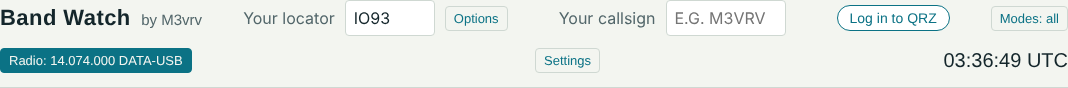
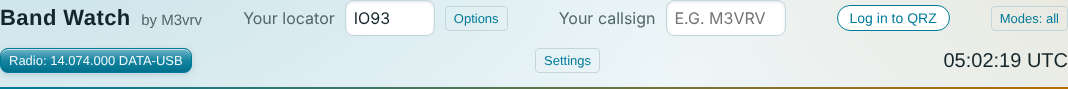
Band Watch 1.12.3: opens in its own window on Windows; brighter, glossy colours
Claude-Session: https://claude.ai/code/session_0138xYeF1kWA1A3BkV9ZvHHy

diff --git a/public/style.css b/public/style.css
@@ -345,3 +345,22 @@ dialog label.filebtn input{position:absolute;inset:0;opacity:0;cursor:pointer;ma
 .wnhits{list-style:none;padding:0;margin:4px 0 0;max-height:260px;overflow:auto}
 .wnhits li{padding:4px 0;border-bottom:1px solid var(--line);display:flex;flex-wrap:wrap;gap:4px 8px;align-items:center}
 .abupd{margin:0 0 10px;font-size:.875rem;display:flex;flex-wrap:wrap;gap:6px 10px;align-items:center}
+
+/* 1.12.3: brighter, glossy look for the Light, Dark and "Match my device" colours. High contrast and Night
+   stay flat on purpose. Gloss is a white highlight layered over each colour, so accent colours still work. */
+:root:not([data-theme]),:root[data-theme="light"],:root[data-theme="system"]{--bg:#eef6f8;--line:#c3d6dc;--warm:#b86e00;--cool:#007a99;--gloss:rgba(255,255,255,.55);--shade:rgba(10,60,80,.14)}
+@media (prefers-color-scheme:dark){:root:not([data-theme]),:root[data-theme="system"]{--bg:#0a1824;--surface:#12283a;--line:#244a60;--warm:#ffbf3d;--cool:#45e0f5;--grid:#1d3a4c;--gloss:rgba(255,255,255,.10);--shade:rgba(0,0,0,.45)}}
+:root[data-theme="dark"]{--bg:#0a1824;--surface:#12283a;--line:#244a60;--warm:#ffbf3d;--cool:#45e0f5;--grid:#1d3a4c;--gloss:rgba(255,255,255,.10);--shade:rgba(0,0,0,.45)}
+:root:not([data-theme="contrast"]):not([data-theme="night"]) body{background:radial-gradient(1200px 600px at 10% -10%,color-mix(in srgb,var(--cool) 16%,transparent),transparent 60%),radial-gradient(900px 500px at 100% 0%,color-mix(in srgb,var(--warm) 12%,transparent),transparent 60%),var(--bg);background-attachment:fixed}
+:root:not([data-theme="contrast"]):not([data-theme="night"]) header{border-bottom:2px solid transparent;border-image:linear-gradient(90deg,var(--cool),var(--warm)) 1}
+:root:not([data-theme="contrast"]):not([data-theme="night"]) .hero .big span{background:linear-gradient(180deg,color-mix(in srgb,var(--cool) 70%,#fff),var(--cool));-webkit-background-clip:text;background-clip:text;color:transparent;filter:drop-shadow(0 2px 6px color-mix(in srgb,var(--cool) 35%,transparent))}
+:root:not([data-theme="contrast"]):not([data-theme="night"]) :is(.map,.toast,.wcc,.actbox,.stmap,.planchart,.banner){background-image:linear-gradient(180deg,var(--gloss),transparent 45%);border-radius:10px;box-shadow:0 6px 20px var(--shade),inset 0 1px 0 var(--gloss)}
+:root:not([data-theme="contrast"]):not([data-theme="night"]) :is(.lk button,.chips button[aria-pressed="true"],.qbtn.on,.lbtn.on,.rigbtn.on,.dbtns button,.qc .go,.lsbar button,.optrow button,.filebtn,.dcrow button){background-image:linear-gradient(180deg,rgba(255,255,255,.45),rgba(255,255,255,.08) 50%,rgba(0,0,0,.08));border-radius:8px;box-shadow:0 2px 6px var(--shade),inset 0 1px 0 rgba(255,255,255,.6);transition:transform .1s,box-shadow .1s,filter .1s}
+:root:not([data-theme="contrast"]):not([data-theme="night"]) :is(.lk button,.dbtns button,.qc .go,.lsbar button,.optrow button,.filebtn,.dcrow button,.chips button,.qbtn,.lbtn,.rigbtn):hover{filter:brightness(1.08);transform:translateY(-1px);box-shadow:0 4px 10px var(--shade),inset 0 1px 0 rgba(255,255,255,.6)}
+:root:not([data-theme="contrast"]):not([data-theme="night"]) :is(.lk button,.dbtns button,.qc .go,.lsbar button,.optrow button,.filebtn,.dcrow button,.chips button,.qbtn,.lbtn,.rigbtn):active{transform:translateY(0);filter:brightness(.97)}
+:root:not([data-theme="contrast"]):not([data-theme="night"]) .chips button{background-image:linear-gradient(180deg,var(--gloss),transparent 60%);box-shadow:0 1px 3px var(--shade)}
+:root:not([data-theme="contrast"]):not([data-theme="night"]) .bar{border-radius:999px;box-shadow:inset 0 1px 2px var(--shade)}
+:root:not([data-theme="contrast"]):not([data-theme="night"]) .bar i{border-radius:999px;background-image:linear-gradient(180deg,rgba(255,255,255,.55),rgba(255,255,255,0) 55%),linear-gradient(90deg,color-mix(in srgb,var(--cool) 75%,#fff),var(--cool));box-shadow:0 0 8px color-mix(in srgb,var(--cool) 45%,transparent)}
+:root:not([data-theme="contrast"]):not([data-theme="night"]) tbody tr:hover{background:color-mix(in srgb,var(--cool) 7%,transparent)}
+:root:not([data-theme="contrast"]):not([data-theme="night"]) tbody tr[aria-selected="true"]{background:linear-gradient(90deg,color-mix(in srgb,var(--warm) 14%,var(--surface)),var(--surface))}
+:root:not([data-theme="contrast"]):not([data-theme="night"]) :is(.ctl input,.lk input,select,textarea){border-radius:8px;box-shadow:inset 0 1px 3px var(--shade)}

diff --git a/public/index.html b/public/index.html
@@ -15,8 +15,8 @@
 <meta name="apple-mobile-web-app-status-bar-style" content="black-translucent">
 <link rel="preconnect" href="https://fonts.googleapis.com">
 <link href="https://fonts.googleapis.com/css2?family=Barlow+Condensed:wght@500;700&family=Barlow:wght@400;500&display=swap" rel="stylesheet">
-<link rel="stylesheet" href="/style.css?v=1.12.2">
-<link rel="stylesheet" href="/listen.css?v=1.12.2">
+<link rel="stylesheet" href="/style.css?v=1.12.3">
+<link rel="stylesheet" href="/listen.css?v=1.12.3">
 </head>
 <body>
 <div class="wrap">
@@ -651,30 +651,30 @@
   The scope is drawn from those spot reports, not from a receiver. Lines on the main map are straight; the station window shows the true great-circle path.
   Listening uses public web receivers run by volunteers; Band Watch doesn't control what they hear.</p>
 </div>
-<script src="/js/install.js?v=1.12.2"></script>
-<script src="/js/bandplan.js?v=1.12.2"></script>
-<script src="/js/core.js?v=1.12.2"></script>
-<script src="/js/modes.js?v=1.12.2"></script>
-<script src="/js/map.js?v=1.12.2"></script>
-<script src="/js/scope.js?v=1.12.2"></script>
-<script src="/js/monitor.js?v=1.12.2"></script>
-<script src="/js/lookup.js?v=1.12.2"></script>
-<script src="/js/worldclock.js?v=1.12.2"></script>
-<script src="/js/locator.js?v=1.12.2"></script>
-<script src="/js/activity.js?v=1.12.2"></script>
-<script src="/js/qrz.js?v=1.12.2"></script>
-<script src="/js/hovercard.js?v=1.12.2"></script>
-<script src="/js/station.js?v=1.12.2"></script>
-<script src="/js/sdr-dsp.js?v=1.12.2"></script>
-<script src="/js/sdr.js?v=1.12.2"></script>
-<script src="/js/listen.js?v=1.12.2"></script>
-<script src="/js/rig.js?v=1.12.2"></script>
-<script src="/js/xota.js?v=1.12.2"></script>
-<script src="/js/logbook.js?v=1.12.2"></script>
-<script src="/js/wanted.js?v=1.12.2"></script>
-<script src="/js/decoders.js?v=1.12.2"></script>
-<script src="/js/sun.js?v=1.12.2"></script>
-<script src="/js/options.js?v=1.12.2"></script>
-<script src="/js/app.js?v=1.12.2"></script>
+<script src="/js/install.js?v=1.12.3"></script>
+<script src="/js/bandplan.js?v=1.12.3"></script>
+<script src="/js/core.js?v=1.12.3"></script>
+<script src="/js/modes.js?v=1.12.3"></script>
+<script src="/js/map.js?v=1.12.3"></script>
+<script src="/js/scope.js?v=1.12.3"></script>
+<script src="/js/monitor.js?v=1.12.3"></script>
+<script src="/js/lookup.js?v=1.12.3"></script>
+<script src="/js/worldclock.js?v=1.12.3"></script>
+<script src="/js/locator.js?v=1.12.3"></script>
+<script src="/js/activity.js?v=1.12.3"></script>
+<script src="/js/qrz.js?v=1.12.3"></script>
+<script src="/js/hovercard.js?v=1.12.3"></script>
+<script src="/js/station.js?v=1.12.3"></script>
+<script src="/js/sdr-dsp.js?v=1.12.3"></script>
+<script src="/js/sdr.js?v=1.12.3"></script>
+<script src="/js/listen.js?v=1.12.3"></script>
+<script src="/js/rig.js?v=1.12.3"></script>
+<script src="/js/xota.js?v=1.12.3"></script>
+<script src="/js/logbook.js?v=1.12.3"></script>
+<script src="/js/wanted.js?v=1.12.3"></script>
+<script src="/js/decoders.js?v=1.12.3"></script>
+<script src="/js/sun.js?v=1.12.3"></script>
+<script src="/js/options.js?v=1.12.3"></script>
+<script src="/js/app.js?v=1.12.3"></script>
 </body>
 </html>

diff --git a/public/js/decoders.js b/public/js/decoders.js
@@ -45,7 +45,7 @@ async function dcStart() {
   dc.running = true;
   dc.rate = 0;
   if (dc.mode === "CW") dc.cwText = "";
-  dc.worker = new Worker("/js/ft8-worker.js?v=1.12.2");
+  dc.worker = new Worker("/js/ft8-worker.js?v=1.12.3");
   dc.worker.onmessage = (e) => onDecoderMessage(e.data);
   dc.worker.onerror = (e) => { dcStop(); dcSetStatus(`The decoder stopped: ${e.message}`); };
   if (dc.src === "mic") {
@@ -54,7 +54,7 @@ async function dcStart() {
       if (dc.device) constraints.deviceId = { exact: dc.device };
       dc.stream = await navigator.mediaDevices.getUserMedia({ audio: constraints });
       dc.ctx = new AudioContext();
-      await dc.ctx.audioWorklet.addModule("/js/capture-worklet.js?v=1.12.2");
+      await dc.ctx.audioWorklet.addModule("/js/capture-worklet.js?v=1.12.3");
       const srcNode = dc.ctx.createMediaStreamSource(dc.stream);
       dc.node = new AudioWorkletNode(dc.ctx, "bw-capture");
       dc.node.port.onmessage = (e) => decoderFeed(e.data, dc.ctx.sampleRate);

diff --git a/public/js/options.js b/public/js/options.js
@@ -298,6 +298,7 @@ async function quitDesktop() {
 
 // What each version added. The build date of the copy you're running comes from the server.
 const VERSION_HISTORY = [
+  ["1.12.3", "On Windows, Band Watch opens in its own window (no address bar or tabs) instead of a browser tab; brighter, glossy colours"],
   ["1.12.2", "Install updates from Settings, About this build; the installer updates your copy in place (no need to uninstall)"],
   ["1.12.1", "SOTA spots removed (SOTA's API terms don't allow AI-written software without approval); POTA checked every two minutes"],
   ["1.12.0", "Yaesu FT-991A radio control over USB; POTA activators on a list, the map and the scope; a logbook with ADIF export and import; wanted alerts; WSPR and CW decoders"],

diff --git a/public/decodes.html b/public/decodes.html
@@ -5,8 +5,8 @@
 <meta name="viewport" content="width=device-width, initial-scale=1">
 <title>Decodes · Band Watch by M3vrv</title>
 <link rel="icon" href="/favicon.svg" type="image/svg+xml">
-<link rel="stylesheet" href="/style.css?v=1.12.2">
-<link rel="stylesheet" href="/listen.css?v=1.12.2">
+<link rel="stylesheet" href="/style.css?v=1.12.3">
+<link rel="stylesheet" href="/listen.css?v=1.12.3">
 <style>
   body{margin:0}
   .dw{padding:12px 16px;display:flex;flex-direction:column;height:100vh;box-sizing:border-box}
@@ -33,6 +33,6 @@
     </table>
   </div>
 </div>
-<script src="/js/decodes-page.js?v=1.12.2"></script>
+<script src="/js/decodes-page.js?v=1.12.3"></script>
 </body>
 </html>

diff --git a/public/js/ft8-worker.js b/public/js/ft8-worker.js
@@ -3,7 +3,7 @@
  * cycle or two, and decodes each 15 s (FT8) or 7.5 s (FT4) cycle as soon as it is complete,
  * lined up with UTC as WSJT-X does (so the PC clock needs to be right to within a second). */
 "use strict";
-importScripts("/js/ft8.js?v=1.12.2", "/js/wspr.js?v=1.12.2", "/js/cw.js?v=1.12.2");
+importScripts("/js/ft8.js?v=1.12.3", "/js/wspr.js?v=1.12.3", "/js/cw.js?v=1.12.3");
 
 // WSPR: two-minute cycles on the even minute, decoded at 12000 samples a second.
 const WSPR_PROTO = { name: "WSPR", period: 120, fs: 12000 };

diff --git a/public/sw.js b/public/sw.js
@@ -2,7 +2,7 @@
 // and opens the last copy of the page when there's no connection. Live data (/api/) is never cached:
 // it always comes straight from the server, so what you see is never out of date without saying so.
 "use strict";
-const VERSION = "1.12.2";
+const VERSION = "1.12.3";
 const CACHE = `bandwatch-${VERSION}`;
 const SHELL = ["/", "/install", "/style.css", "/listen.css", "/install.css", "/favicon.svg", "/manifest.webmanifest", "/icons/icon-192.png"];
 

diff --git a/test/browser.test.js b/test/browser.test.js
@@ -683,7 +683,7 @@ test("display options: colours, accent, text size, scale, layout, sections and s
   assert.equal(await page.getAttribute("html", "data-theme"), null);
   assert.equal(await css("html", "fontSize"), "16px");
   assert.equal(await page.isVisible("#secMap"), true);
-  assert.equal(await rootVar("--cool"), "#0b7285");
+  assert.equal(await rootVar("--cool"), "#007a99");
   assert.deepEqual(errors, []);
 });
 

diff --git a/desktop/appwindow_test.go b/desktop/appwindow_test.go
@@ -1,0 +1,49 @@
+package main
+
+import (
+	"path/filepath"
+	"testing"
+)
+
+func TestAppBrowser(t *testing.T) {
+	env := map[string]string{"ProgramFiles": "/pf", "ProgramFiles(x86)": "/pf86", "LOCALAPPDATA": "/local"}
+	getenv := func(k string) string { return env[k] }
+	have := func(paths ...string) func(string) bool {
+		return func(p string) bool {
+			for _, x := range paths {
+				if p == x {
+					return true
+				}
+			}
+			return false
+		}
+	}
+	edge := filepath.Join("/pf86", "Microsoft", "Edge", "Application", "msedge.exe")
+	chrome := filepath.Join("/pf", "Google", "Chrome", "Application", "chrome.exe")
+	userChrome := filepath.Join("/local", "Google", "Chrome", "Application", "chrome.exe")
+	cases := []struct {
+		name  string
+		files []string
+		want  string
+	}{
+		{"edge first", []string{chrome, edge}, edge},
+		{"chrome only", []string{chrome}, chrome},
+		{"chrome for one user", []string{userChrome}, userChrome},
+		{"neither", nil, ""},
+	}
+	for _, c := range cases {
+		if got := appBrowser(getenv, have(c.files...)); got != c.want {
+			t.Errorf("%s: got %q, want %q", c.name, got, c.want)
+		}
+	}
+	if got := appBrowser(func(string) string { return "" }, have(edge)); got != "" {
+		t.Errorf("no environment: got %q", got)
+	}
+}
+
+func TestAppWindowArgs(t *testing.T) {
+	a := appWindowArgs("http://localhost:8073/")
+	if len(a) == 0 || a[0] != "--app=http://localhost:8073/" {
+		t.Fatalf("args %v", a)
+	}
+}

diff --git a/desktop/appwindow.go b/desktop/appwindow.go
@@ -1,0 +1,32 @@
+package main
+
+import "path/filepath"
+
+// appBrowser finds Microsoft Edge or Google Chrome on Windows, the browsers that can show Band Watch in
+// an app window. It returns "" when neither is installed.
+func appBrowser(getenv func(string) string, exists func(string) bool) string {
+	var tries []string
+	for _, root := range []string{getenv("ProgramFiles(x86)"), getenv("ProgramFiles"), getenv("LOCALAPPDATA")} {
+		if root == "" {
+			continue
+		}
+		tries = append(tries, filepath.Join(root, "Microsoft", "Edge", "Application", "msedge.exe"))
+	}
+	for _, root := range []string{getenv("ProgramFiles"), getenv("ProgramFiles(x86)"), getenv("LOCALAPPDATA")} {
+		if root == "" {
+			continue
+		}
+		tries = append(tries, filepath.Join(root, "Google", "Chrome", "Application", "chrome.exe"))
+	}
+	for _, p := range tries {
+		if exists(p) {
+			return p
+		}
+	}
+	return ""
+}
+
+// appWindowArgs opens url as an app window: no tabs or address bar, sized for the Band Watch layout.
+func appWindowArgs(url string) []string {
+	return []string{"--app=" + url, "--window-size=1280,860"}
+}

diff --git a/desktop/platform_windows.go b/desktop/platform_windows.go
@@ -3,6 +3,7 @@
 package main
 
 import (
+	"os"
 	"os/exec"
 	"syscall"
 	"unsafe"
@@ -15,8 +16,24 @@ func hidden(cmd *exec.Cmd) *exec.Cmd {
 	return cmd
 }
 
+// openBrowser shows Band Watch. It opens in its own app window (Edge or Chrome with --app: no address
+// bar or tabs, its own taskbar button) and falls back to the default browser if neither is found or
+// BANDWATCH_WINDOW=browser is set. Edge comes with Windows, and Web Serial radio control needs Edge or
+// Chrome anyway.
 func openBrowser(url string) {
+	if os.Getenv("BANDWATCH_WINDOW") != "browser" {
+		if exe := appBrowser(os.Getenv, fileExists); exe != "" {
+			if hidden(exec.Command(exe, appWindowArgs(url)...)).Start() == nil {
+				return
+			}
+		}
+	}
 	hidden(exec.Command("rundll32", "url.dll,FileProtocolHandler", url)).Start()
+}
+
+func fileExists(p string) bool {
+	st, err := os.Stat(p)
+	return err == nil && !st.IsDir()
 }
 
 // stopOldNodeServer stops a Band Watch 1.5 or older, which ran under Node.js.

diff --git a/CHANGELOG.md b/CHANGELOG.md
@@ -1,5 +1,13 @@
 # What's new
 
+## 1.12.3 (17 Nov 2026)
+- **Its own window:** on Windows, Band Watch now opens in an app window of its own, with no address bar or
+  tabs and its own button on the taskbar, instead of a tab in your browser. It uses Microsoft Edge (which
+  comes with Windows) or Chrome, so radio control works too. To have a normal browser tab again, set
+  BANDWATCH_WINDOW=browser.
+- **Brighter, glossy colours:** shinier buttons, softly lit panels, glowing activity bars and a brighter teal
+  and amber in the Light and Dark colours. High contrast and Night stay plain on purpose.
+
 ## 1.12.2 (17 Nov 2026)
 - **Updates from inside Band Watch:** Settings > About this build says when a newer version is out. In the
   Windows app, **Install update** downloads it from GitHub, checks it against the release's checksums, and
